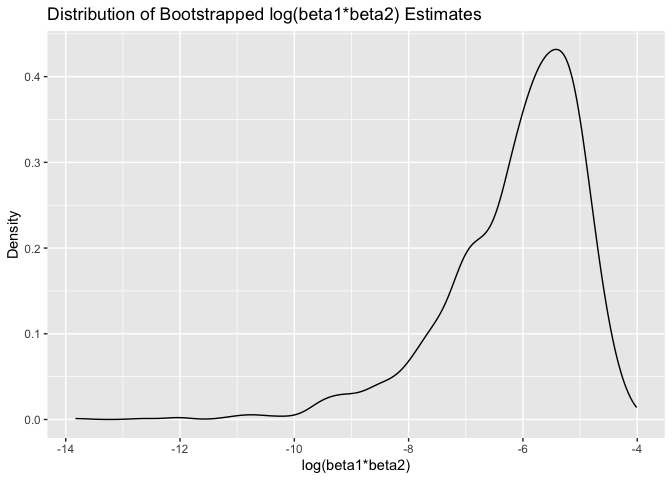
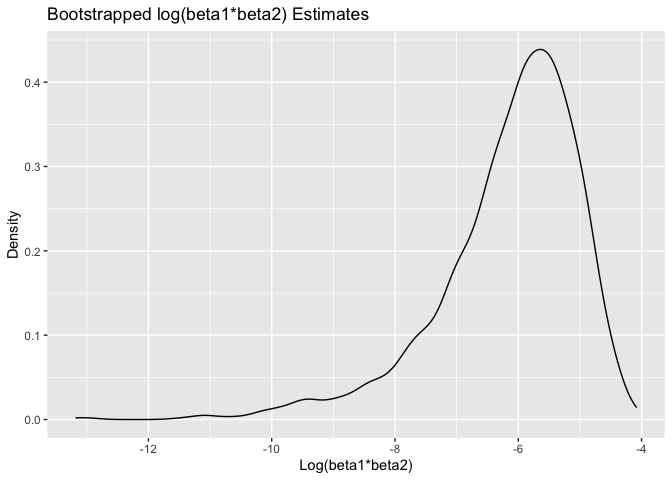
Writeups finished, layout checked

diff --git a/p8105_hw6_md4270.md b/p8105_hw6_md4270.md
@@ -103,7 +103,6 @@ for_all_cities = tibble(
 
 Create a plot that shows the estimated ORs and CIs for each city.
 Organize cities according to estimated OR, and comment on the plot.
-\[edit\]
 
 ``` r
 for_all_cities |>
@@ -118,6 +117,19 @@ for_all_cities |>
 ```
 
 ![](p8105_hw6_md4270_files/figure-gfm/unnamed-chunk-9-1.png)<!-- -->
+
+The majority of cities have actual odds ratios for solving homicides
+comparing male victims to female victims smaller than 1. This means that
+crimes involving male victims tend to have smaller odds of getting
+resolved compared to those involving female victims, keeping all other
+variables fixed and taking victim age, sex and race into accounts.
+
+The confidence intervals for about half of the cities exclude 1, which
+suggests that there is generally a significant difference in odds ratio
+for resolution by victim sex.
+
+Albuquerque, MN seems to have the highest odds ratio, and New York, NY
+has the lowest odds ratio.
 
 ## Problem 2
 
@@ -142,47 +154,47 @@ boot_strap = weather_df |>
   modelr::bootstrap(n = 5000) |> 
   mutate(
     mods = map(strap, ~lm(tmax ~ tmin + prcp, data = .x)),
-    mods_beta = map(mods, broom::glance),
-    mods_r2 = map(mods, broom::tidy)) |> 
-  unnest(mods_r2, mods_beta) |> 
+    beta = map(mods, broom::glance),
+    r2 = map(mods, broom::tidy)) |> 
+  unnest(r2, beta) |> 
   dplyr::select(.id, term, estimate, r.squared) |> 
   pivot_wider(names_from = term, values_from = estimate) |> 
   rename(
-    beta_0 = `(Intercept)`,
-    beta_1 = tmin,
-    beta_2 = prcp) |> 
+    beta0 = `(Intercept)`,
+    beta1 = tmin,
+    beta2 = prcp) |> 
   summarise(r.squared = r.squared,
-    log_beta12 = log(beta_1 * beta_2),
-    log_beta01 = log(beta_0 * beta_1))
+    log1 = log(beta1 * beta2),
+    log2 = log(beta0 * beta1))
 ```
 
 Extract quantile:
 
 ``` r
-r2_ci = 
+r_sq_ci = 
   quantile(boot_strap$r.squared, probs = c(0.025,0.975)) |> 
-  knitr::kable(digits=4)
+  knitr::kable(digits=4, col.names = c("Quantile", "R-squared"), title = "R-squared 95% Confidence Interval")
 
 log_ci = 
-  quantile(boot_strap$log_beta01, probs = c(0.025,0.975)) |>  
-  knitr::kable(digits=4)
+  quantile(boot_strap$log2, probs = c(0.025,0.975)) |>  
+  knitr::kable(digits=4, col.names = c("Quantile", "Log(beta0 * beta1)"), title = "Log(beta0 * beta1) 95% Confidence Interval")
 
-r2_ci
+r_sq_ci
 ```
 
-|       |      x |
-|:------|-------:|
-| 2.5%  | 0.8892 |
-| 97.5% | 0.9406 |
+| Quantile | R-squared |
+|:---------|----------:|
+| 2.5%     |    0.8893 |
+| 97.5%    |    0.9406 |
 
 ``` r
 log_ci
 ```
 
-|       |      x |
-|:------|-------:|
-| 2.5%  | 2.0565 |
-| 97.5% | 2.1385 |
+| Quantile | Log(beta0 \* beta1) |
+|:---------|--------------------:|
+| 2.5%     |              2.0549 |
+| 97.5%    |              2.1387 |
 
 Plot:
 
@@ -190,28 +202,40 @@ Plot:
 boot_strap |> 
   ggplot(aes(x = r.squared)) +
   geom_density() +
-  labs(title = "Distribution of Bootstrapped R-squared Estimates", x = "R-squared", y = "Density")
+  labs(title = "Bootstrapped R-squared Estimates", x = "R-squared", y = "Density")
 ```
 
 ![](p8105_hw6_md4270_files/figure-gfm/unnamed-chunk-13-1.png)<!-- -->
 
+The density plot of bootstrapped R-squared estimates shows a roughly
+unimodal, slightly left-skewed distribution that reaches its highest
+density when R-squared is around 0.92.
+
 ``` r
 boot_strap |> 
-  ggplot(aes(x = log_beta12)) +
+  ggplot(aes(x = log1)) +
   geom_density() +
-  labs(title = "Distribution of Bootstrapped log(beta1*beta2) Estimates", x = "log(beta1*beta2)", y = "Density")
+  labs(title = "Bootstrapped log(beta1*beta2) Estimates", x = "Log(beta1*beta2)", y = "Density")
 ```
 
 ![](p8105_hw6_md4270_files/figure-gfm/unnamed-chunk-14-1.png)<!-- -->
 
+The density plot of bootstrapped log(beta1 times beta2) estimates shows
+an unimodal, heavily left-skewed distribution that reaches its highest
+density when log(beta1 times beta2) is around -5.5.
+
 ``` r
 boot_strap |> 
-  ggplot(aes(x = log_beta01)) +
+  ggplot(aes(x = log2)) +
   geom_density() +
-  labs(title = "Distribution of Bootstrapped log(beta0*beta1) Estimates", x = "log(beta0*beta1)", y = "Density")
+  labs(title = "Bootstrapped log(beta0*beta1) Estimates", x = "Log(beta0*beta1)", y = "Density")
 ```
 
 ![](p8105_hw6_md4270_files/figure-gfm/unnamed-chunk-15-1.png)<!-- -->
+
+The density plot of bootstrapped log(beta0 times beta1) estimates shows
+a roughly normally distribution. It is unimodal and reaches its highest
+density when log(beta0 times beta1) is around 2.1.
 
 ## Problem 3
 
